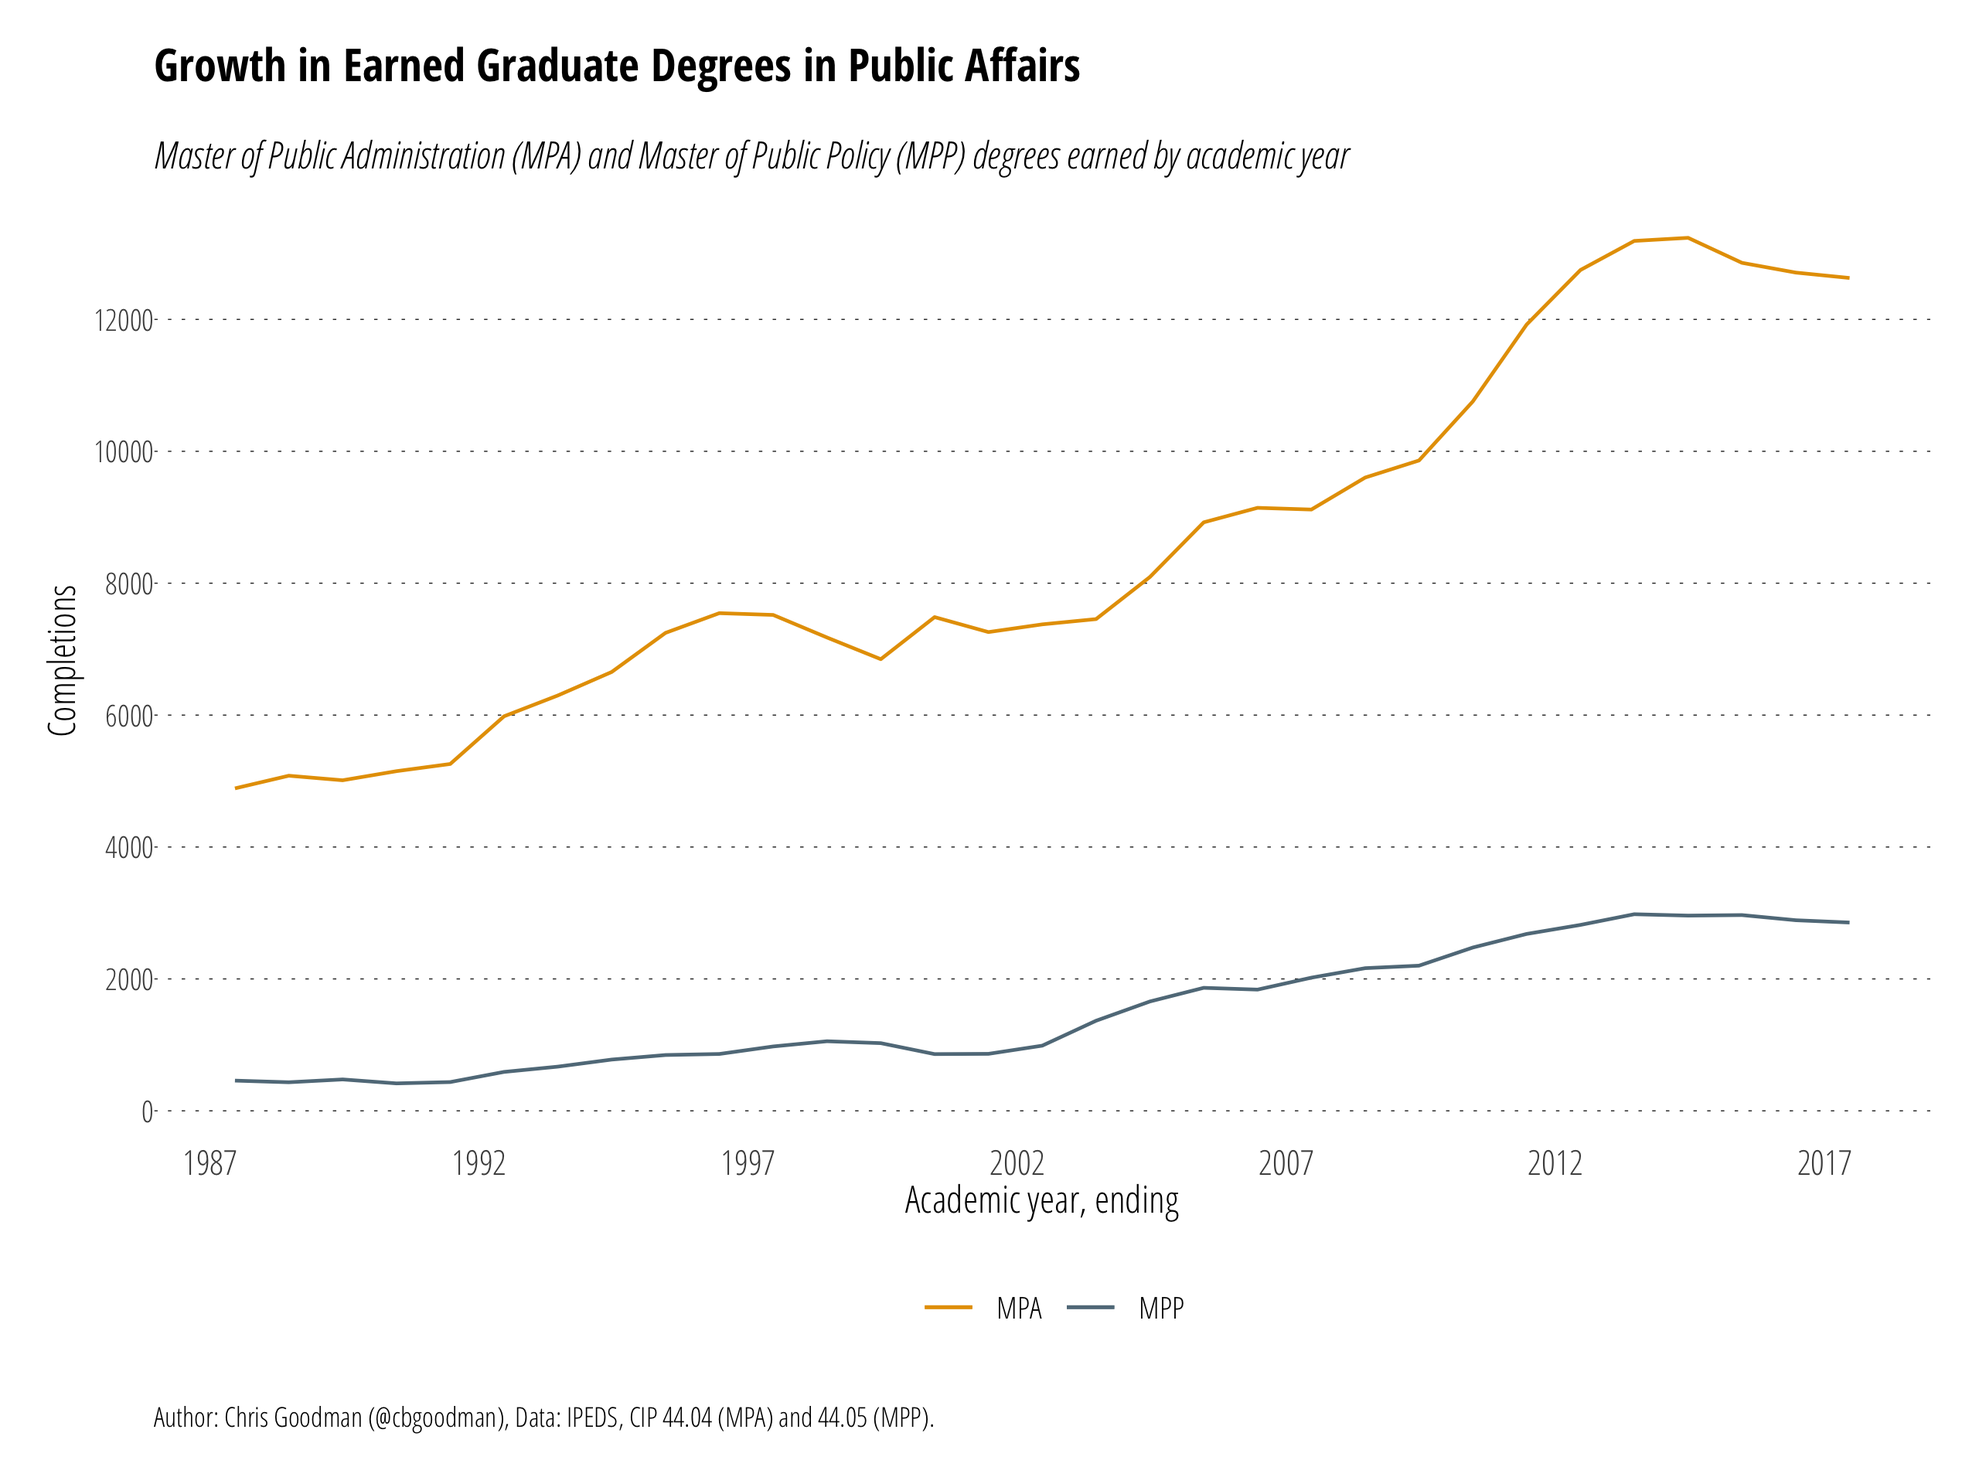
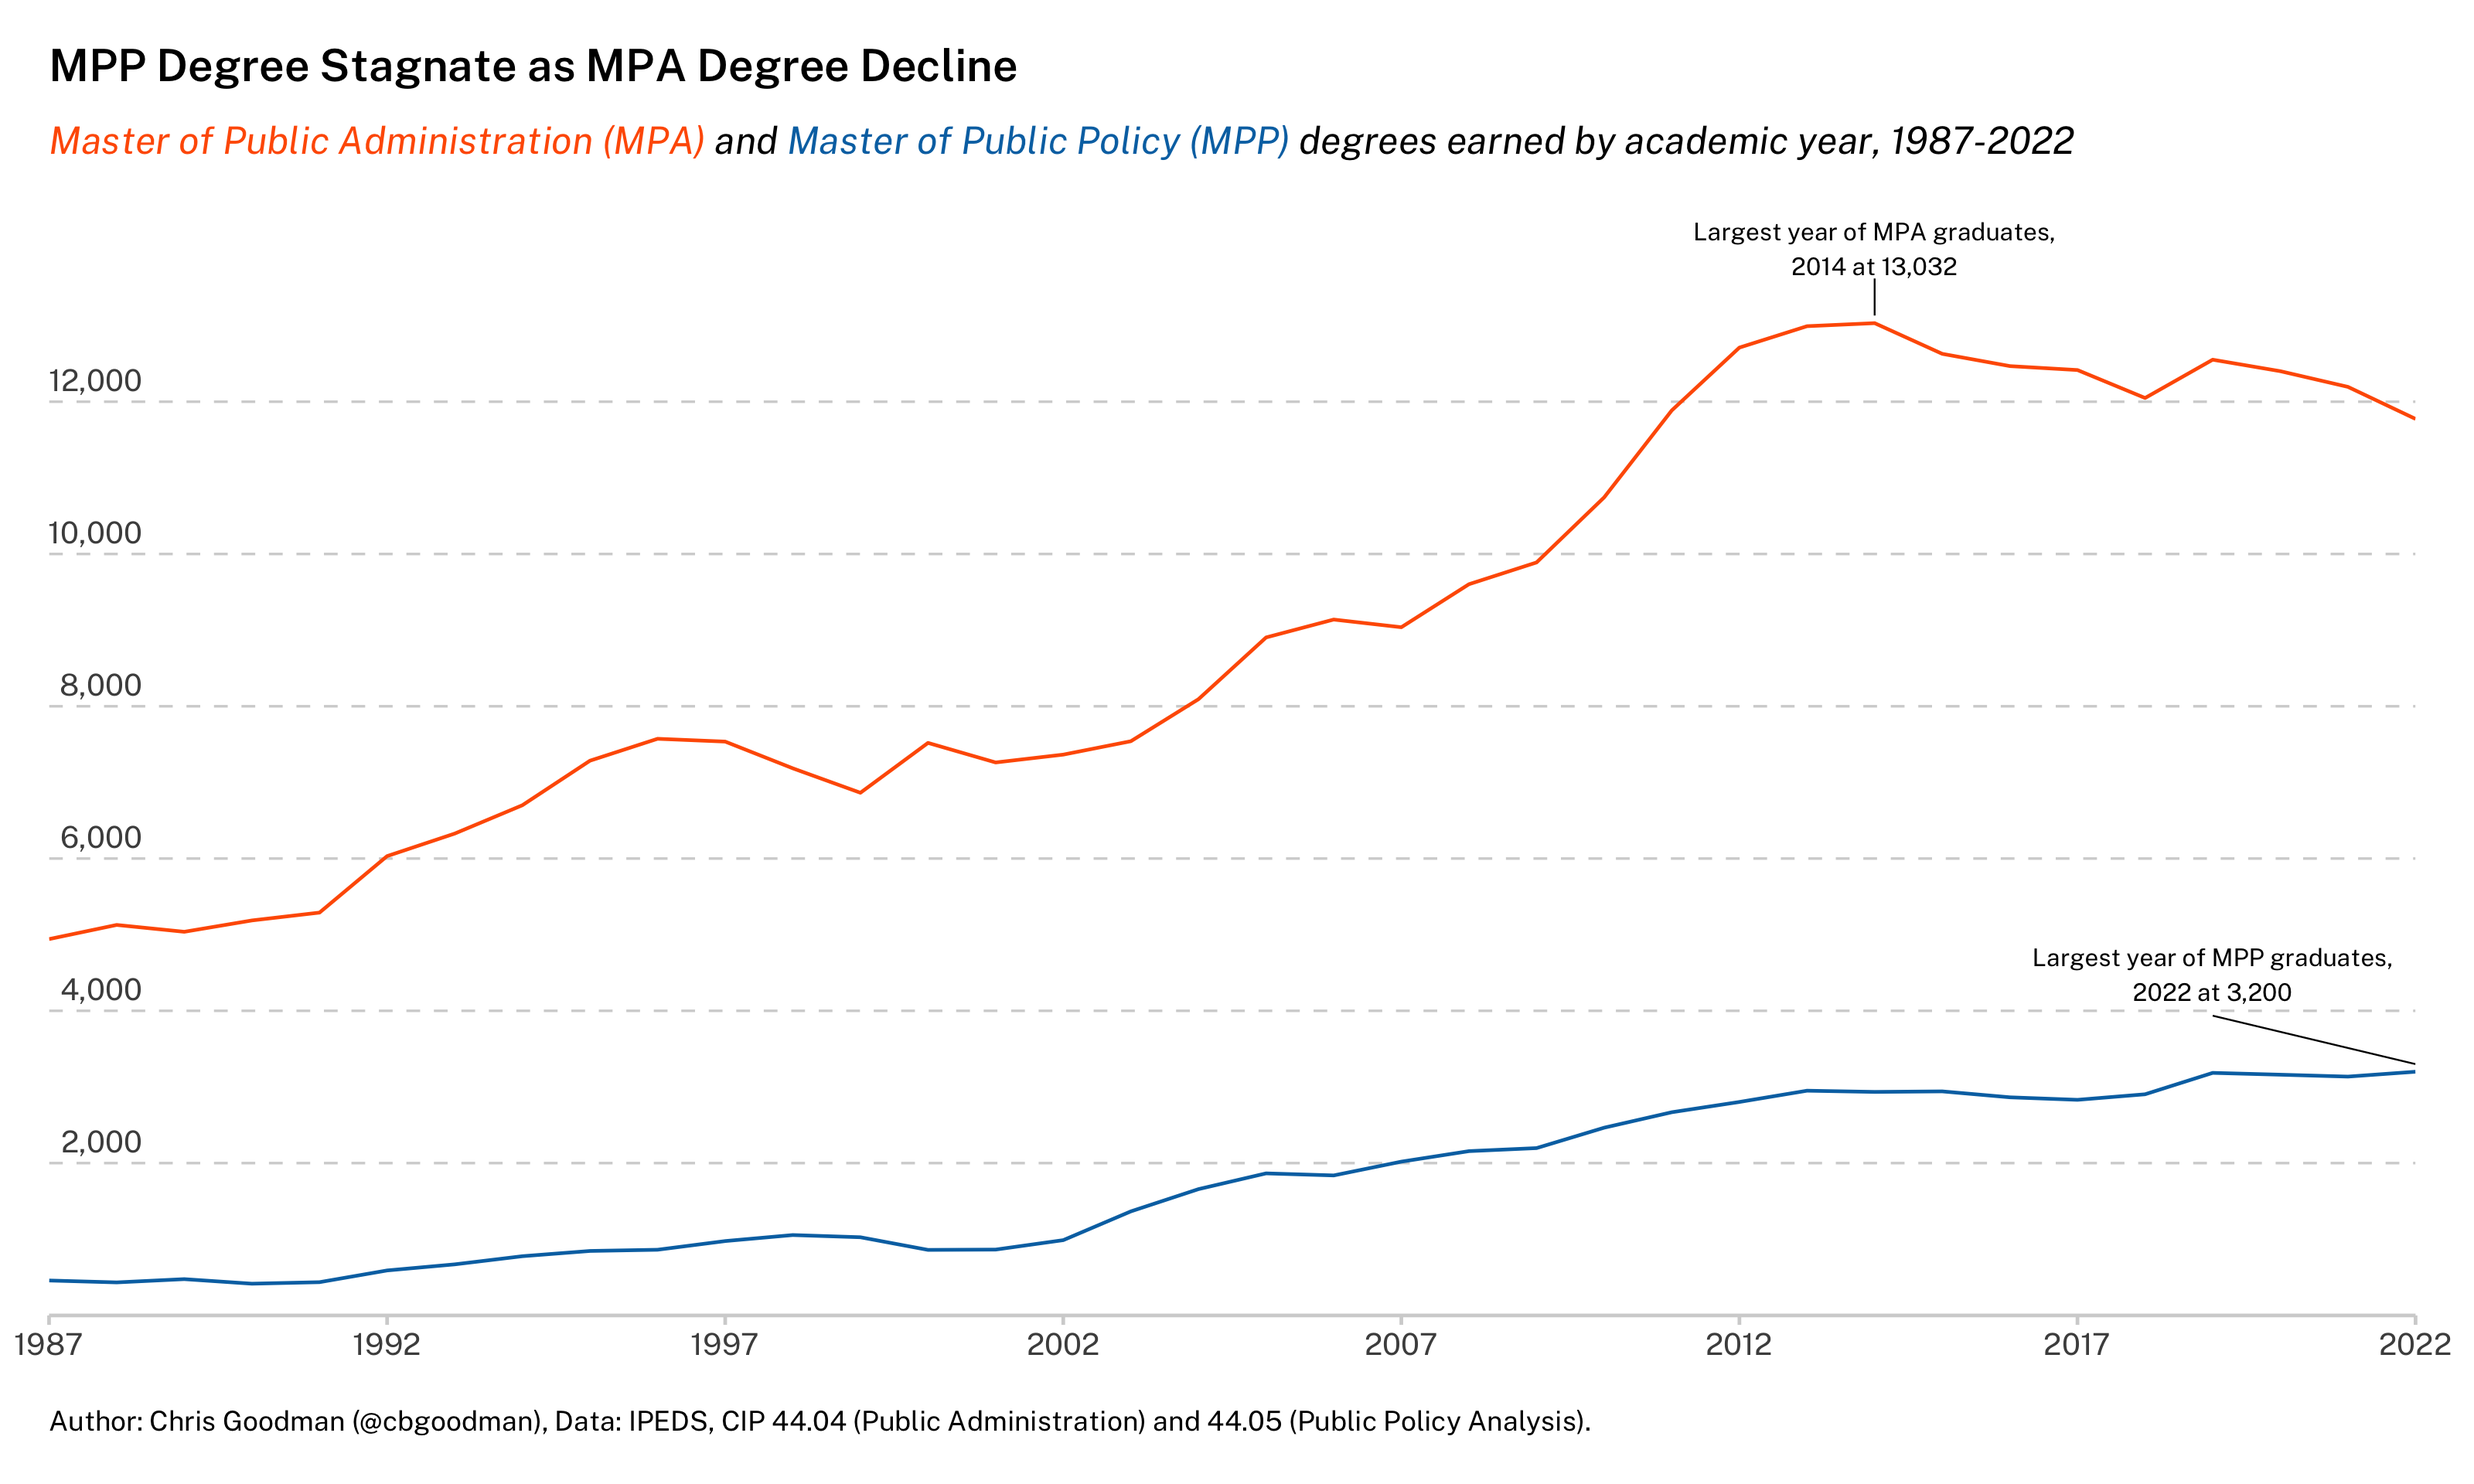
complete update

diff --git a/README.md b/README.md
@@ -2,6 +2,8 @@
 
 The **R** script `ipeds-pa.r` reads `data.csv` to create the images below of earned graduate degrees in public affairs from academic year ending 1987 to 2017. The data are from [IPEDS Data Center](https://nces.ed.gov/ipeds/use-the-data).
 
+## Data
+The data are sourced from the IPEDS database using the "Title IV and U.S. service institutions (NCES publications)" group.
 
 ![MPA-MPP](mpampp.png)
 
